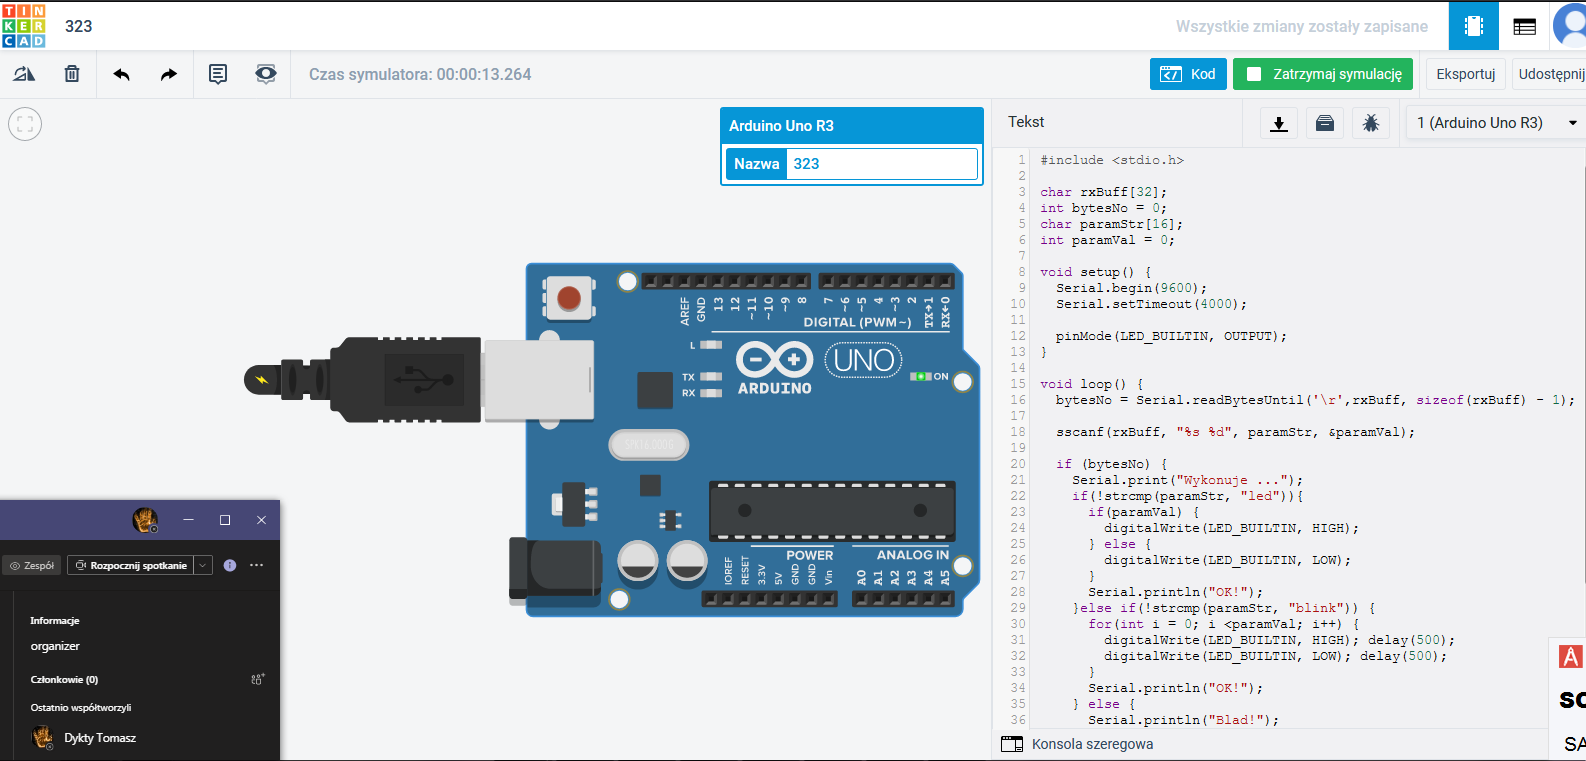
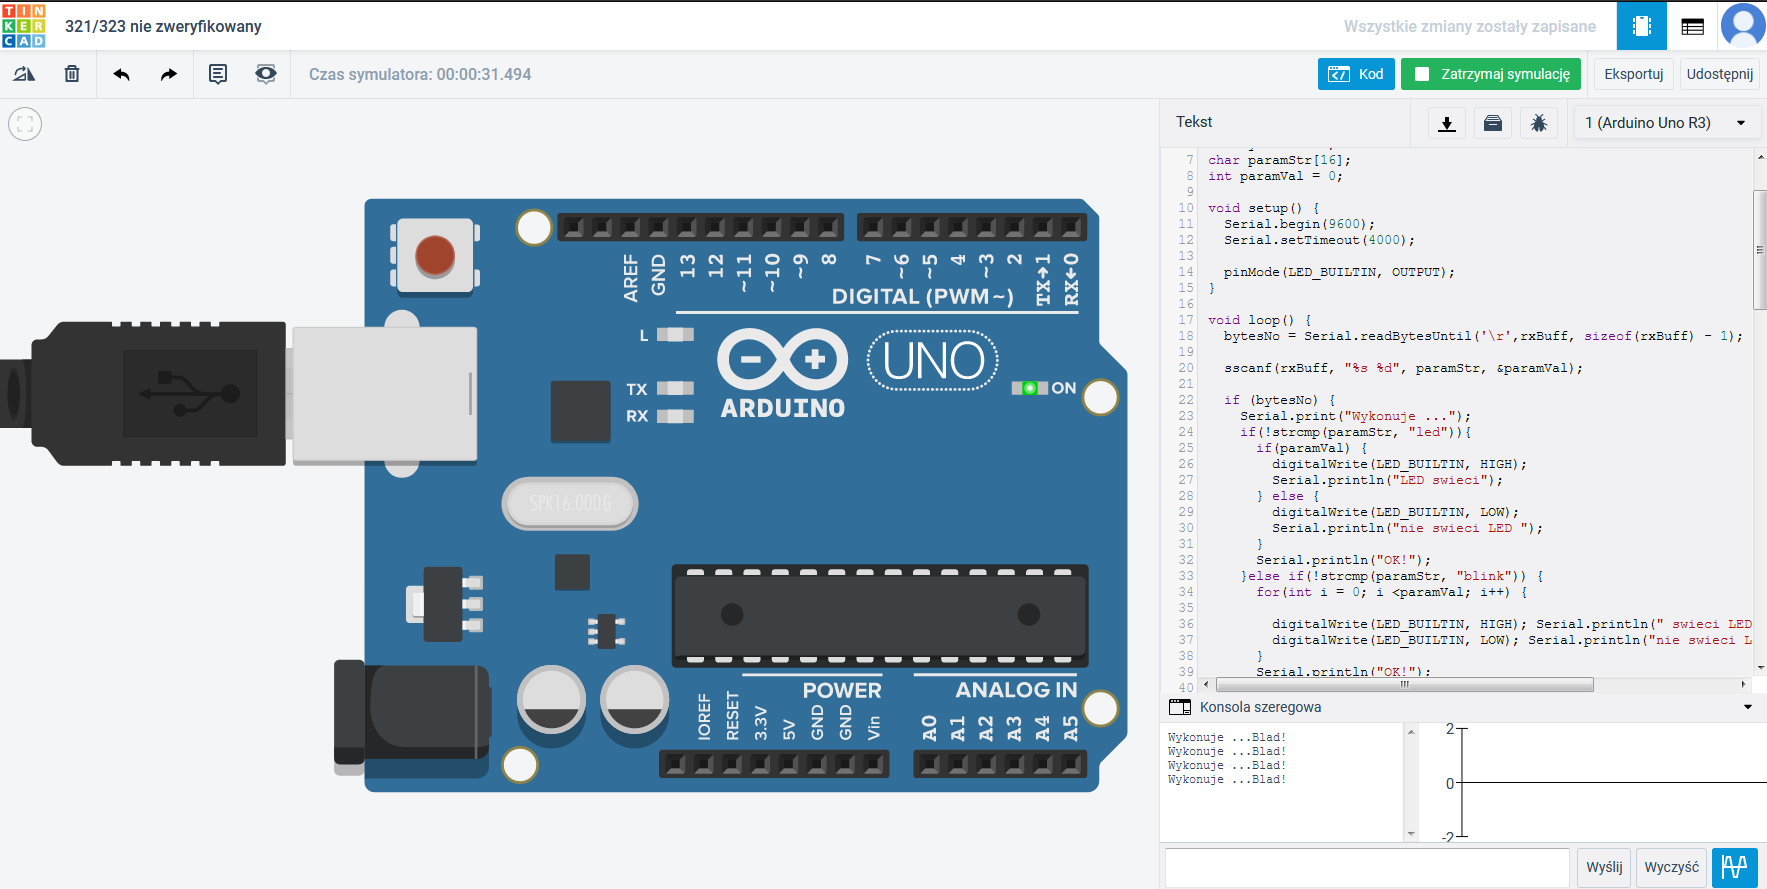
zadanie 323 wersja z wyświetleniem stanu diody

diff --git a/Zadanie-3-2/src/main.cpp b/Zadanie-3-2/src/main.cpp
@@ -1,4 +1,111 @@
+//225
+/*
+#include <Arduino.h>
+#include <SPI.h>
 
+#define SPI_CS_PIN 10
+
+typedef int32_t BMP280_S32_t;
+typedef uint32_t BMP280_U32_t;
+
+uint8_t configReg = 0, ctrlReg = 0;
+
+uint8_t device_id = 0;
+uint8_t rawdata[32];
+uint32_t rawVal = 0;
+uint32_t degC = 0, press = 0;
+double ddegC = 0, dpress = 0;
+
+
+uint16_t dig_T1 = 0;
+int16_t dig_T2 = 0, dig_T3 = 0;
+uint16_t dig_P1 = 0;
+int16_t dig_P2 = 0, dig_P3 = 0, dig_P4 = 0, dig_P5 = 0;
+int16_t dig_P6 = 0, dig_P7 = 0, dig_P8 = 0, dig_P9 = 0;
+
+BMP280_S32_t t_fine;
+
+BMP280_S32_t bmp280_compensate_T_int32(BMP280_S32_t adc_T);
+BMP280_S32_t bmp280_compensate_P_int32(BMP280_S32_t adc_p);
+
+void setup()
+{
+  Serial.begin(9600);
+  Serial.setTimeout(4000);
+
+  SPI.begin();
+  pinMode(SPI_CS_PIN, OUTPUT);
+  digitalWrite(SPI_CS_PIN, HIGH);
+
+  digitalWrite(SPI_CS_PIN, LOW);
+  SPI.transfer(0xD0);
+  device_id = SPI.transfer(0x00);
+  digitalWrite(SPI_CS_PIN, HIGH);
+  Serial.print("Device ID: "); Serial.println(device_id, HEX);
+
+  digitalWrite(SPI_CS_PIN, LOW);
+  SPI.transfer(0x88);
+  for(int i = 0;i<24;i++)
+  {
+    rawdata[i] = SPI.transfer(0x00);}
+    digitalWrite(SPI_CS_PIN, HIGH);
+
+    dig_T1 = (((uint16_t)rawdata[1]) << 8) | ((uint16_t)rawdata[0]);
+    dig_T2 = (((int16_t)rawdata[3]) << 8) | ((int16_t)rawdata[2]);
+    dig_T3 = (((int16_t)rawdata[5]) << 8) | ((int16_t)rawdata[4]);
+    dig_P1 = (((uint16_t)rawdata[7]) << 8) | ((uint16_t)rawdata[6]);
+    dig_P2 = (((int16_t)rawdata[9]) << 8) | ((int16_t)rawdata[8]);
+    dig_P3 = (((int16_t)rawdata[11]) << 8) | ((int16_t)rawdata[10]);
+    dig_P4 = (((int16_t)rawdata[13]) << 8) | ((int16_t)rawdata[12]);
+    dig_P5 = (((int16_t)rawdata[15]) << 8) | ((int16_t)rawdata[14]);
+    dig_P6 = (((int16_t)rawdata[17]) << 8) | ((int16_t)rawdata[16]);
+    dig_P7 = (((int16_t)rawdata[19]) << 8) | ((int16_t)rawdata[18]);
+    dig_P8 = (((int16_t)rawdata[21]) << 8) | ((int16_t)rawdata[20]);
+    dig_P9 = (((int16_t)rawdata[23]) << 8) | ((int16_t)rawdata[22]);
+
+
+  configReg = (0x04 << 5) | (0x04 << 2) | 0x00;
+  ctrlReg = (0x02 << 5) | (0x05 << 2) | 0x03;
+  digitalWrite(SPI_CS_PIN, LOW);
+  SPI.transfer(0x75);
+  SPI.transfer(configReg);
+  SPI.transfer(0x74);
+  SPI.transfer(ctrlReg);
+  digitalWrite(SPI_CS_PIN, HIGH);
+}
+
+void loop() {
+  digitalWrite(SPI_CS_PIN, LOW);
+  SPI.transfer(0xF7);
+  for(int i = 0; i < 6; i++)
+  {
+    rawdata[i] = SPI.transfer(0x00);
+  }
+  digitalWrite(SPI_CS_PIN, HIGH);
+
+  rawVal = (((uint32_t)rawdata[3]) << 12) | (((uint32_t)rawdata[4]) << 4) | (((uint32_t)rawdata[5]) >> 4);
+  degC = bmp280_compensate_T_int32(rawVal);
+  ddegC = degC /100.0;
+  Serial.print("Temperatura: "); Serial.print(ddegC); Serial.println("stC");
+
+  rawVal = (((uint32_t)rawdata[0]) << 12) | (((uint32_t)rawdata[1]) << 4) | (((uint32_t)rawdata[2]) >> 4);
+  press = bmp280_compensate_P_int32(rawVal);
+  dpress = press / 100.0;
+  Serial.print("Cisnienei: "); Serial.print(dpress); Serial.println("hPa");
+
+  delay(3000);
+}
+BMP280_S32_t bmp280_compensate_T_int32(BMP280_S32_t adc_T){
+}
+BMP280_U32_t bmp280_compensate_P_int32(BMP280_S32_t adc_P){
+
+}
+
+*/
+
+
+
+/* nie zrobiont tinker
 //324
 #include <Arduino.h>
 #include <stdint.h>
@@ -44,9 +151,9 @@ ISR (USART_RX_vect){
 #endif
 
 
+*/
 
 
-/*
 
 //323 ukończono
 #include <Arduino.h>
@@ -73,15 +180,18 @@ void loop() {
     Serial.print("Wykonuje ...");
     if(!strcmp(paramStr, "led")){
       if(paramVal) {
-        digitalWrite(LED_BUILTIN, HIGH); 
+        digitalWrite(LED_BUILTIN, HIGH);
+        Serial.println("LED swieci"); 
       } else {
-        digitalWrite(LED_BUILTIN, LOW); 
+        digitalWrite(LED_BUILTIN, LOW);
+        Serial.println("nie swieci LED ");  
       }
       Serial.println("OK!");
     }else if(!strcmp(paramStr, "blink")) {
       for(int i = 0; i <paramVal; i++) {
-        digitalWrite(LED_BUILTIN, HIGH); delay(500);
-        digitalWrite(LED_BUILTIN, LOW); delay(500);
+
+        digitalWrite(LED_BUILTIN, HIGH); Serial.println(" swieci LED ");   delay(500);
+        digitalWrite(LED_BUILTIN, LOW); Serial.println("nie swieci LED ");   delay(500);
       }
       Serial.println("OK!");
     } else {
@@ -97,7 +207,7 @@ void loop() {
   }
 }
 
-*/
+
 
 
 
